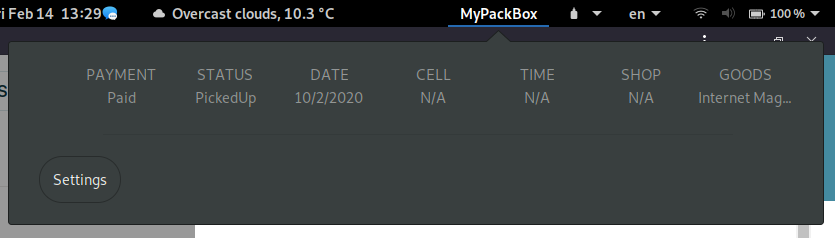
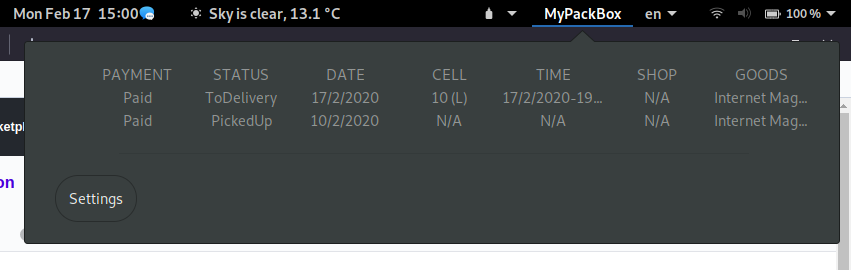
Fix time format

diff --git a/MyPackBox@alexanderc/extension.js b/MyPackBox@alexanderc/extension.js
@@ -350,7 +350,7 @@ const MyPackBox = Lang.Class({
     const cellTimeLabel = new St.Label({
       y_align: Clutter.ActorAlign.CENTER,
       text: (item.cellTimeEnd
-        ? `${this._formatDate(item.cellTimeBegin)}-${this._formatDate(item.cellTimeEnd)}`
+        ? `${this._formatDate(item.cellTimeBegin, false)}-${this._formatDate(item.cellTimeEnd, false)}`
         : _('N/A')),
     });
     menuItem.insert_child_at_index(cellTimeLabel, idx++);
